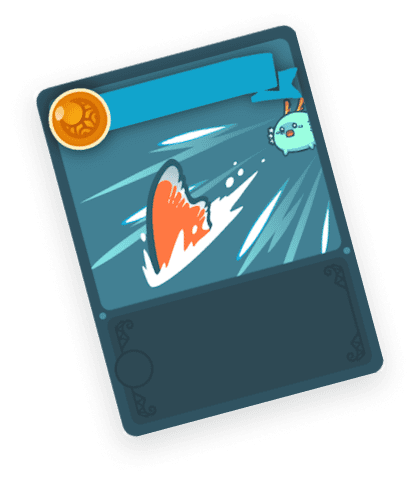
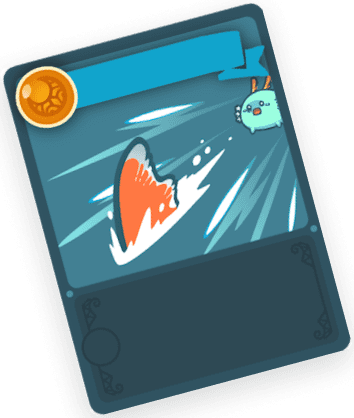
анимация карточек рыбы-птицы

diff --git a/src/js/main.js b/src/js/main.js
@@ -883,4 +883,46 @@ document.addEventListener("DOMContentLoaded", function (){
 			});
 		});
 	}
+
+	/*========универсализация, когда блок в хоне видимости========*/
+	const gameCardsCategory = document.querySelector('#gameCardsCategory');
+	if(gameCardsCategory){
+		
+		let Visible = function (target) {
+			// Все позиции элемента
+			let targetPosition = {
+					top: window.pageYOffset + target.getBoundingClientRect().top,
+					left: window.pageXOffset + target.getBoundingClientRect().left,
+					right: window.pageXOffset + target.getBoundingClientRect().right,
+					bottom: window.pageYOffset + target.getBoundingClientRect().bottom
+				},
+				// Получаем позиции окна
+				windowPosition = {
+					top: window.pageYOffset,
+					left: window.pageXOffset,
+					right: window.pageXOffset + document.documentElement.clientWidth,
+					bottom: window.pageYOffset + document.documentElement.clientHeight
+				};
+
+			if (targetPosition.bottom > windowPosition.top && // Если позиция нижней части элемента больше позиции верхней чайти окна, то элемент виден сверху
+				targetPosition.top < windowPosition.bottom && // Если позиция верхней части элемента меньше позиции нижней чайти окна, то элемент виден снизу
+				targetPosition.right > windowPosition.left && // Если позиция правой стороны элемента больше позиции левой части окна, то элемент виден слева
+				targetPosition.left < windowPosition.right) { // Если позиция левой стороны элемента меньше позиции правой чайти окна, то элемент виден справа
+				// Если элемент полностью видно, то запускаем следующий код
+				setTimeout(function(){
+					target.classList.add('active');
+				}, 500)
+				
+			}
+		};
+
+		// Запускаем функцию при прокрутке страницы
+		window.addEventListener('scroll', function () {
+			Visible(gameCardsCategory);
+		});
+
+		// А также запустим функцию сразу. А то вдруг, элемент изначально видно
+		Visible(gameCardsCategory);
+	}
+
 });

diff --git a/src/scss/pages/_about-game.scss b/src/scss/pages/_about-game.scss
@@ -421,3 +421,45 @@ article .flex-header {
 	
 }
 
+#gameCardsCategory.active{
+	.picture-card{
+		img:last-child{
+			animation-name: visibleBottom;
+			animation-duration: .5s;
+			animation-delay: 1s;
+			animation-fill-mode:  forwards;
+			animation-timing-function: ease-in-out;
+		}
+		img.img-back{
+			animation-name: visibleBottom2;
+			animation-duration: .5s;
+			animation-delay: .5s;
+			animation-fill-mode: forwards;
+			animation-timing-function: ease-in-out;
+		}
+	}
+}
+@keyframes visibleBottom{
+	0%{
+		transform: translate(-45%, 150%);
+	}
+	50%{
+		transform: translate(-45%, -10%);
+	}
+	100%{
+		transform: translate(-45%, 0);
+	}
+}
+@keyframes visibleBottom2 {
+	0% {
+		transform: translate(-54%, 150%);
+	}
+
+	50% {
+		transform: translate(-54%, -10%);
+	}
+
+	100% {
+		transform: translate(-54%, 0);
+	}
+}

diff --git a/src/scss/base/_cards.scss b/src/scss/base/_cards.scss
@@ -309,23 +309,22 @@
 	background-repeat: no-repeat;
 	overflow: hidden;
 	display: block;
+	transition: .3s;
 	img{
 		position: absolute;
 		left: 50%;
 		top: 18px;
-		transform: translateX(-45%);
+		transform: translate(-45%, 150%);
 		transition: .5s;
 
 	}
 	img.img-back{
-		top: 38px;
-		transform: translateX(-54%);
+		top: 50px;
+		transform: translateX(-54%, 150%);
 	}
 	&:hover{
-		img:last-child{
-			transform: translateX(-5%) ;
-			
-		}
+		opacity: .8;
+		.badge{opacity: 1;}
 		
 	}
 }
